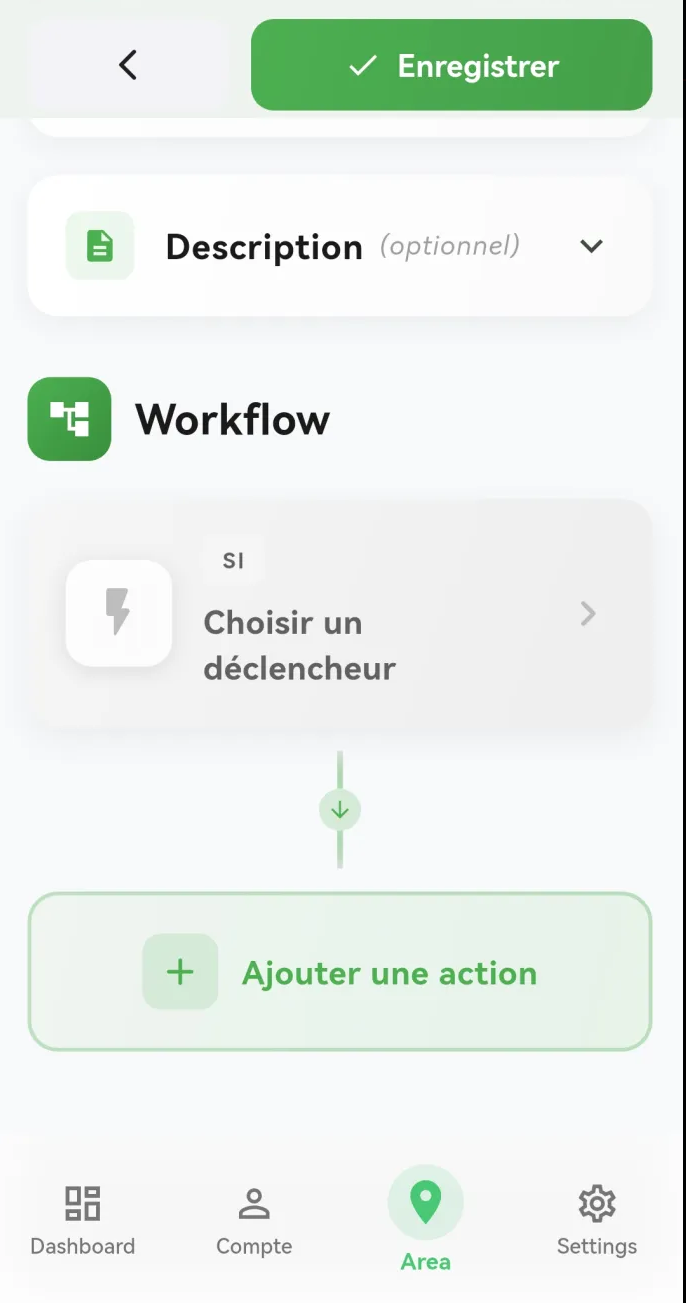
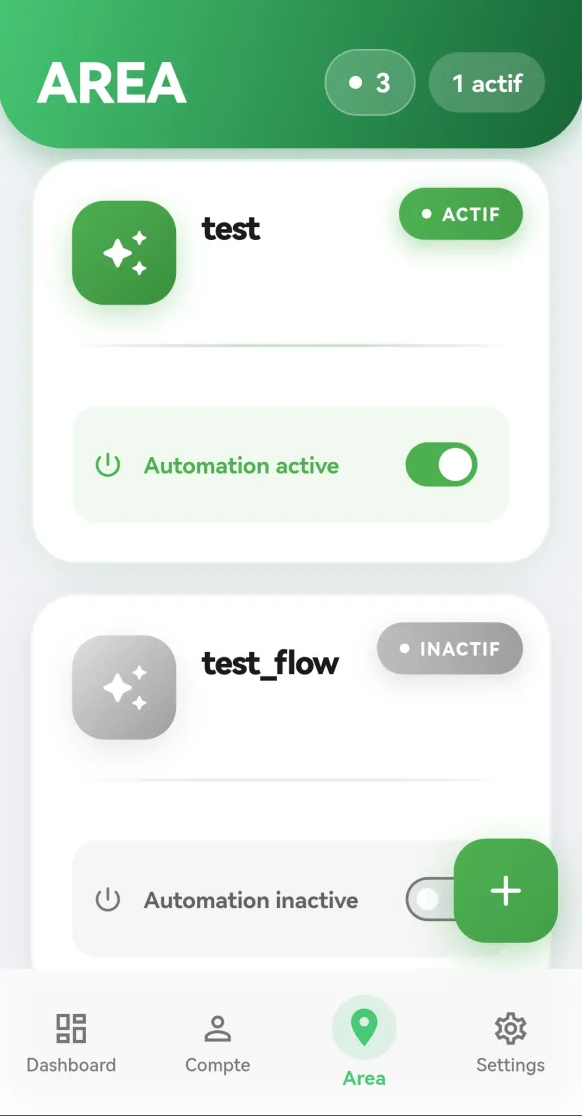
feat:(DownloadsPage) more screenshot of the web vue

diff --git a/frontend/app/pages/download.vue b/frontend/app/pages/download.vue
@@ -99,14 +99,6 @@
             <h3>Sécurisé & Privé</h3>
             <p>Vos données sont chiffrées et protégées selon les standards les plus élevés</p>
           </div>
-
-          <div class="feature-card">
-            <div class="feature-icon">
-              <UIcon name="i-heroicons-bell" />
-            </div>
-            <h3>Notifications intelligentes</h3>
-            <p>Recevez des notifications pertinentes sur l'état de vos automatisations</p>
-          </div>
         </div>
       </div>
     </section>
@@ -214,24 +206,6 @@
           </div>
         </div>
 
-        <div class="cta-phones">
-          <div class="phone-mockup-small">
-            <div class="phone-screen-small">
-              <div class="screen-placeholder-small">
-                <UIcon name="i-heroicons-rocket-launch" class="placeholder-icon" />
-                <p>App en action</p>
-              </div>
-            </div>
-          </div>
-          <div class="phone-mockup-small">
-            <div class="phone-screen-small">
-              <div class="screen-placeholder-small">
-                <UIcon name="i-heroicons-sparkles" class="placeholder-icon" />
-                <p>Interface moderne</p>
-              </div>
-            </div>
-          </div>
-        </div>
       </div>
     </section>
 
@@ -257,11 +231,6 @@
             <h3>Mes données sont-elles sécurisées ?</h3>
             <p>Absolument. Nous utilisons un chiffrement de bout en bout et ne stockons jamais vos mots de passe.</p>
           </div>
-
-          <div class="faq-item">
-            <h3>Puis-je utiliser l'app hors ligne ?</h3>
-            <p>Vous pouvez consulter vos automatisations hors ligne, mais une connexion est requise pour les exécuter.</p>
-          </div>
         </div>
       </div>
     </section>
@@ -276,25 +245,60 @@ definePageMeta({
   layout: 'default'
 })
 
-const handleDownload = () => {
-  // Faux lien vers Google Play Store
-  const fakePlayStoreUrl = 'https://play.google.com/store/apps/details?id=com.area.mobile.fake'
+const config = useRuntimeConfig()
+const backendUrl = config.public.backendUrl || 'http://localhost:8080'
 
-  // Simulation d'un téléchargement
+const handleDownload = async () => {
   const toast = useToast()
-  toast.add({
-    title: 'Redirection vers Google Play',
-    description: 'Vous allez être redirigé vers le Play Store...',
-    color: 'green',
-    timeout: 3000,
-    icon: 'i-simple-icons-googleplay'
-  })
 
-  // Simuler une redirection (ne fonctionne pas vraiment)
-  setTimeout(() => {
-    console.log('Redirection simulée vers:', fakePlayStoreUrl)
-    // window.open(fakePlayStoreUrl, '_blank')
-  }, 1000)
+  try {
+    toast.add({
+      title: 'Téléchargement en cours',
+      description: 'Préparation du téléchargement de l\'APK...',
+      color: 'blue',
+      timeout: 2000,
+      icon: 'i-heroicons-arrow-down-tray'
+    })
+
+    // Appeler la route backend pour télécharger l'APK
+    const response = await fetch(`${backendUrl}/api/download/apk`)
+
+    if (!response.ok) {
+      throw new Error('Échec du téléchargement')
+    }
+
+    // Créer un blob à partir de la réponse
+    const blob = await response.blob()
+
+    // Créer un lien de téléchargement
+    const url = window.URL.createObjectURL(blob)
+    const link = document.createElement('a')
+    link.href = url
+    link.download = 'area-mobile.apk'
+    document.body.appendChild(link)
+    link.click()
+
+    // Nettoyer
+    document.body.removeChild(link)
+    window.URL.revokeObjectURL(url)
+
+    toast.add({
+      title: 'Téléchargement réussi',
+      description: 'L\'APK a été téléchargé avec succès',
+      color: 'green',
+      timeout: 3000,
+      icon: 'i-heroicons-check-circle'
+    })
+  } catch (error) {
+    console.error('Erreur lors du téléchargement:', error)
+    toast.add({
+      title: 'Erreur',
+      description: 'Impossible de télécharger l\'APK. Veuillez réessayer.',
+      color: 'red',
+      timeout: 3000,
+      icon: 'i-heroicons-exclamation-circle'
+    })
+  }
 }
 
 useHead({
@@ -682,51 +686,6 @@ useHead({
   color: var(--color-primary);
 }
 
-.cta-phones {
-  display: flex;
-  justify-content: center;
-  gap: 2rem;
-}
-
-.phone-mockup-small {
-  width: 150px;
-  height: 300px;
-  background: #1a1a1a;
-  border-radius: 20px;
-  padding: 6px;
-  box-shadow: 0 10px 20px rgba(0, 0, 0, 0.2);
-}
-
-.phone-screen-small {
-  width: 100%;
-  height: 100%;
-  background: var(--bg-card);
-  border-radius: 15px;
-  overflow: hidden;
-}
-
-.screen-placeholder-small {
-  height: 100%;
-  display: flex;
-  flex-direction: column;
-  align-items: center;
-  justify-content: center;
-  border: 1px dashed var(--border-color);
-}
-
-.placeholder-icon {
-  width: 2rem;
-  height: 2rem;
-  color: var(--color-primary);
-  margin-bottom: 0.5rem;
-}
-
-.screen-placeholder-small p {
-  color: var(--text-secondary);
-  font-size: 0.75rem;
-  text-align: center;
-}
-
 /* FAQ Section */
 .faq-section {
   padding: 5rem 0;
@@ -786,11 +745,6 @@ useHead({
 
   .cta-title {
     font-size: 2rem;
-  }
-
-  .cta-phones {
-    flex-direction: column;
-    align-items: center;
   }
 }
 
